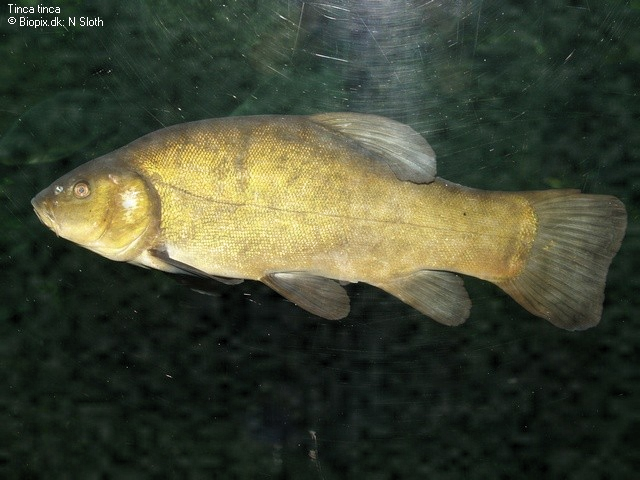
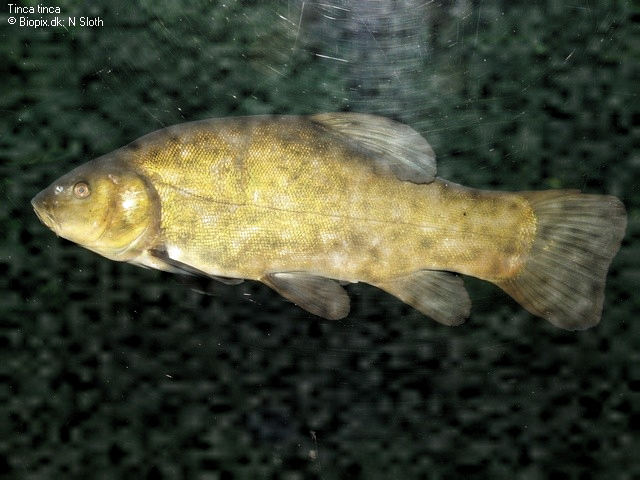
gradient estimation kinda working now, need to fix termination condition to be based off of scaled up rgb pdq distance instead of grayscale pdq distance

diff --git a/src/gradient_estimation.py b/src/gradient_estimation.py
@@ -4,7 +4,10 @@ from PIL import Image
 import pdqhash
 from image_utils import *
 
-PDQ_THRESHOLD = 20 # Represents hamming distance between PDQ hashes, change later
+PDQ_THRESHOLD = 35 # Represents hamming distance between PDQ hashes, change later
+NUM_ITERATIONS = 200 # Number of iterations our iterative algorithm works for
+EPS_MAX = 0.26 # Max L_inf allowed
+
 
 def project_linf(delta, eps):
     """Project delta (HxW) onto L∞ ball with radius eps (elementwise clamp)."""
@@ -51,6 +54,7 @@ def best_candidate_from_random(x, delta_cum, num_candidates=200, per_pixel_eps=0
         # create trial cumulative perturbation and limit it (so candidates don't exceed global budget by themselves)
         trial_delta = delta_cum + cand
         trial_delta = project_linf(trial_delta, per_pixel_eps*5)  # optionally cap intermediate values
+        trial_delta = project_l2(trial_delta, per_pixel_eps*5)  # optionally cap intermediate values
 
         # compute pdq distance between base_perturbed and base_perturbed + cand
         # note: pdq_distance_gray expects delta that when added to x produces perturbed image;
@@ -98,8 +102,9 @@ def iterative_greedy_attack(orig_rgb, x_small, its=50, M=200, eps_step=0.005, ep
         # project cumulative perturbation onto allowed L_inf ball so it stays imperceptible
         bar_delta = project_linf(bar_delta, eps_max)
 
+        #l2_max = 0.3
         # optionally also project L2 if you want:
-        # bar_delta = project_l2(bar_delta, l2_max)
+        #bar_delta = project_l2(bar_delta, l2_max)
 
         # compute pdq distance between x and x + bar_delta (for logging)
         dist_cum, sim_cum, qorig, qpert = pdq_distance_gray(x_small, bar_delta)
@@ -145,10 +150,10 @@ def process_image(path):
     # Run iterative greedy attack
     bar_delta, delta_rgb, perturbed_rgb, history = iterative_greedy_attack(
         orig_rgb, x,
-        its=100,
+        its=NUM_ITERATIONS,
         M=200,
         eps_step=0.005,
-        eps_max=0.1,
+        eps_max=EPS_MAX,
         candidate_type='gauss',
         threshold=PDQ_THRESHOLD
     )
@@ -186,6 +191,8 @@ def process_image(path):
 
     # PDQ final reporting between small x and small x+bar_delta
     dist_cum, sim_cum, qorig_cum, qpert_cum = pdq_distance_gray(x, bar_delta)
+    dist_full, sim_full, qorig_full, qpert_full = pdq_distance_rgb(
+            orig_rgb, perturbed_rgb)
 
     # Save naming summary (printed)
     print(f"\nProcessed {name}")
@@ -195,7 +202,8 @@ def process_image(path):
     print(f"  small stacked (L/R)   : {stacked_small_out}")
     print(f"  bar_delta visualization: {bd_out}")
     print(f"PDQ final (small): PDQdist={int(dist_cum)} PDQsim={sim_cum:.3f} Qorig={qorig_cum:.1f} Qpert={qpert_cum:.1f}")
-
+    print(f"PDQ final (original): PDQdist={int(dist_full)} PDQsim={sim_full:.3f} Qorig={qorig_full:.1f} Qpert={qpert_full:.1f}")
+    print(f"  Final L2 per pixel for original: {l2_per_pixel_rgb(perturbed_rgb - orig_rgb)}")
     # Optionally return paths & history
     return {
         "orig": orig_out,

diff --git a/src/image_utils.py b/src/image_utils.py
@@ -24,6 +24,11 @@ def lp_per_pixel(delta, p=2):
         return np.max(np.abs(delta))
     return (np.mean(np.abs(delta) ** p)) ** (1.0 / p)
 
+def l2_per_pixel_rgb(delta_rgb):
+    # delta_rgb: HxWx3 (float, same scale as your images, usually [0,1])
+    per_pix_sq = np.sum(delta_rgb**2, axis=2)      # HxW
+    return np.sqrt(np.mean(per_pix_sq))            # scalar
+
 def to_float(img):
     return np.asarray(img, dtype=np.float32) / 255.0
 
@@ -92,6 +97,30 @@ def pdq_distance_gray(x_float, delta_float):
     dist = pdq_hamming_distance(hv1, hv2)       # 0..256
     sim = (256 - dist) / 256.0
     return dist, sim, q1, q2
+
+def pdq_distance_rgb(a_float, b_float):
+    """
+    a_u8, b_u8: HxWx3 uint8 RGB
+    returns: (dist, sim, q_a, q_b) where dist is Hamming distance in [0..256], sim in [0..1]
+    """
+
+    img_a = _ensure_rgb_uint8(to_uint8(a_float))
+    img_b = _ensure_rgb_uint8(to_uint8(b_float))
+
+    h1, q1 = pdqhash.compute(img_a)  # h1: 256-bit hash (as bytes/bitset/np array depending on binding), q1: quality
+    h2, q2 = pdqhash.compute(img_b)
+
+    # Convert hashes to bit arrays if needed, then compute Hamming distance
+    # The binding may already give a numpy bool array of length 256; if it's bytes/str, adapt accordingly.
+    # Example assuming numpy boolean arrays:
+    import numpy as np
+    h1_bits = np.array(h1, dtype=np.bool_) if not isinstance(h1, np.ndarray) else h1.astype(np.bool_)
+    h2_bits = np.array(h2, dtype=np.bool_) if not isinstance(h2, np.ndarray) else h2.astype(np.bool_)
+
+    dist = int(np.count_nonzero(h1_bits ^ h2_bits))
+    sim = 1.0 - (dist / 256.0)
+
+    return dist, sim, float(q1), float(q2)
 
 # === IMPLEMENTATION OF ALGORITHM 3: InverseDelta ===
 
